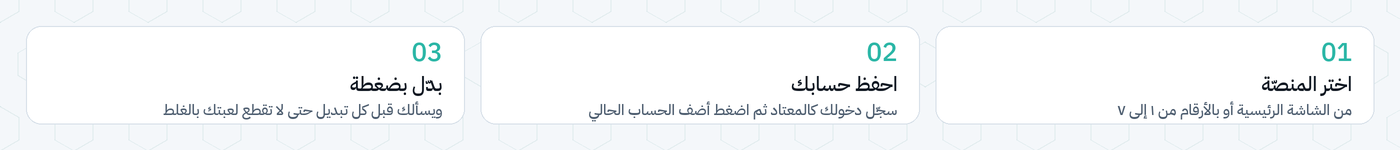
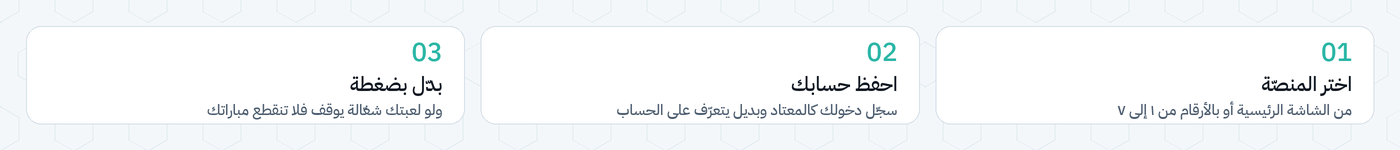
الإصدار 0.1.3 ووصفه
صور صفحة المستودع صارت تعرف البحث والنقل وحماية المباراة، وبطاقة بلا خوادم
كانت تقول إن فحص التحديثات هو الاتصال الوحيد فصارت تقول إنه لا يكلّم إلا
GitHub، وخطوتا الحفظ والتبديل صارتا تصفان ما يحدث فعلًا

والسطر العربي الذي يبدأ بكلمة لاتينية مثل Ctrl K كان يُرسم مقلوبًا في الصور،
لأن اتجاهه كان يؤخذ من أول حرف فيه، فصار من اليمين دائمًا

Changed region(s): [[0.0921, 0.6933, 0.3071, 0.8], [0.3993, 0.6933, 0.5529, 0.8]]

diff --git a/assets/readme/make.py b/assets/readme/make.py
@@ -55,8 +55,11 @@ LIGHT = {
 
 
 def ar(text):
-    """وصل الحروف العربية وترتيبها، فـ PIL لا يفعلها بنفسه."""
-    return get_display(RESHAPER.reshape(text))
+    """وصل الحروف العربية وترتيبها، فـ PIL لا يفعلها بنفسه.
+
+    السطر عربي دائمًا هنا، فاتجاهه من اليمين ولو بدأ بكلمة لاتينية، وإلا
+    قُلب ترتيب «Ctrl K يجد أي حساب» كله لأن أول حرف فيه لاتيني."""
+    return get_display(RESHAPER.reshape(text), base_dir="R")
 
 
 def txt(s):
@@ -277,7 +280,10 @@ FEATURES = [
     ("بلا كلمة سر", "لا يطلب كلمة سر المنصّة ولا يقرأها، وإنما ينقل ملفات الجلسة التي أنشأتها المنصّة"),
     ("ملف لكل شخص", "الجهاز الواحد يستخدمه أكثر من لاعب، فلكل واحد حساباته ولونه وإعداداته"),
     ("يجد تثبيتك", "لا مسارات مكتوبة مسبقًا، يقرأ سجل ويندوز وملفات المنصّات ولو كانت على قرص آخر"),
-    ("بلا خوادم", "لا حساب ولا خادم ولا سطر يتتبّعك، والاتصال الوحيد فحص التحديثات ويمكن إيقافه"),
+    ("بلا خوادم", "لا خادم ولا تتبّع، ولا يكلّم إلا GitHub للتحديثات واللوحة، ويمكن إيقافهما"),
+    ("بحث شامل", "Ctrl K يجد أي حساب في أي منصّة ويبدّل له بضغطة Enter"),
+    ("ينتقل معك", "ملف مقفل بكلمة سر ينقل حساباتك إلى جهاز جديد أو بعد الفرمتة"),
+    ("يحمي مباراتك", "لا يبدّل ولعبتك تعمل، فلا يقطع مباراة ولا يجلب لك عقوبة خروج"),
 ]
 
 SECURITY = [
@@ -288,8 +294,8 @@ SECURITY = [
 
 STEPS = [
     ("01", "اختر المنصّة", "من الشاشة الرئيسية أو بالأرقام من ١ إلى ٧"),
-    ("02", "احفظ حسابك", "سجّل دخولك كالمعتاد ثم اضغط أضف الحساب الحالي"),
-    ("03", "بدّل بضغطة", "ويسألك قبل كل تبديل حتى لا تقطع لعبتك بالغلط"),
+    ("02", "احفظ حسابك", "سجّل دخولك كالمعتاد وبديل يتعرّف على الحساب"),
+    ("03", "بدّل بضغطة", "ولو لعبتك شغّالة يوقف فلا تنقطع مباراتك"),
 ]
 
 

diff --git a/.github/notes/v0.1.3.md b/.github/notes/v0.1.3.md
@@ -1,0 +1,35 @@
+# بديل v0.1.3: ابحث في كل حساباتك وانقلها معك
+
+أكبر تحديث لبديل من يوم نزل، فيه أشياء طلبتوها وتصليحات لأشياء بلّغتونا عنها
+
+### الجديد
+
+- **ابحث في كل حساباتك:** اضغط Ctrl K من أي مكان واكتب جزء من اسم الحساب، يلقاه في أي منصّة كان وEnter يبدّل له، ولو ما كتبت شي يعرض لك آخر الحسابات الي استخدمتها
+- **حساباتك تنتقل معك:** من الإعدادات ثم الأمان تصدّر حساباتك وصورها في ملف واحد مقفل بكلمة سر تختارها، وتستورده في جهاز جديد أو بعد الفرمتة، والحسابات الموجودة ما تُمسّ
+- **ما يقطع مباراتك:** لو لعبتك شغّالة يوقف بديل التبديل ويقول لك اسمها، بدل ما يسكّرها عليك في نص الماتش وتاخذ عقوبة
+- **باتل نت صار يلقى حساباته وحده** مثل ستيم، وباقي المنصّات أول ما تفتحها وأنت مسجّل دخول يسألك بنفسه عن اسم الحساب
+- **لوحة صغيرة** في صفحة المنصّة فيها كلمة أو برنامج ثاني لنا، تجي من موقعنا على GitHub ولا يطلع من جهازك شي، وتقدر تطفيها من الإعدادات
+
+### تصليحات
+
+- باتل نت كان يمسح حساباتك الثانية من قائمته بعد التبديل، فيبان كأن الحساب ما انحفظ
+- الأسماء المزخرفة مثل ǺŦĤĿǺŴȈ كانت تطلع علامات استفهام
+- الكتابة في بحث الحسابات كانت تشغّل الاختصارات، فحرف l يقفل الخزنة والرقم ينقلك لمنصّة ثانية
+
+### التشغيل
+
+نزّل `badeel.exe` وشغّله، ملف واحد بلا مثبّت ولا يطلب صلاحيات مدير، ولا يترك خلفه خدمة ولا مهمة مجدولة
+
+ويندوز يحذّرك أول مرة عبر SmartScreen لأن الملف غير موقّع رقميًا، اضغط **More info** ثم **Run anyway**
+
+---
+
+The biggest badeel update yet, with things you asked for and fixes for things you reported.
+
+- **Search every account:** press Ctrl K anywhere and type part of a name. It finds the account on whichever platform it lives and Enter switches to it. An empty search lists your most recent accounts.
+- **Your accounts move with you:** Settings, then Security, exports your accounts and pictures into one file locked with a password you pick. Import it on a new PC or after a fresh Windows install; accounts already there are left alone.
+- **It won't cut your match:** if your game is running, the switch stops and names it instead of closing it mid-match.
+- **Battle.net finds its accounts by itself**, like Steam. On the other platforms, badeel asks you to name the signed-in account the first time you open them.
+- **A small board** on the platform page shows a word or another of our apps. It is fetched from our site on GitHub, sends nothing from your PC, and can be turned off in Settings.
+
+Fixes: Battle.net no longer drops your other saved accounts after a switch, stylised names like ǺŦĤĿǺŴȈ now render, and typing in the account search no longer fires shortcuts.

diff --git a/README.md b/README.md
@@ -74,7 +74,7 @@
 <picture>
   <source media="(prefers-color-scheme: dark)" srcset="https://github.com/Ryanathlawi/badeel/raw/main/.assets/features-dark.png" />
   <source media="(prefers-color-scheme: light)" srcset="https://github.com/Ryanathlawi/badeel/raw/main/.assets/features-light.png" />
-  <img src="https://github.com/Ryanathlawi/badeel/raw/main/.assets/features-dark.png" width="100%" alt="تبديل ذرّي، مربوط بجهازك، بلا كلمة سر، ملف لكل شخص، يجد تثبيتك، بلا خوادم" />
+  <img src="https://github.com/Ryanathlawi/badeel/raw/main/.assets/features-dark.png" width="100%" alt="تبديل ذرّي، مربوط بجهازك، بلا كلمة سر، ملف لكل شخص، يجد تثبيتك، بلا خوادم، بحث شامل، ينتقل معك، يحمي مباراتك" />
 </picture>
 
 <picture>
